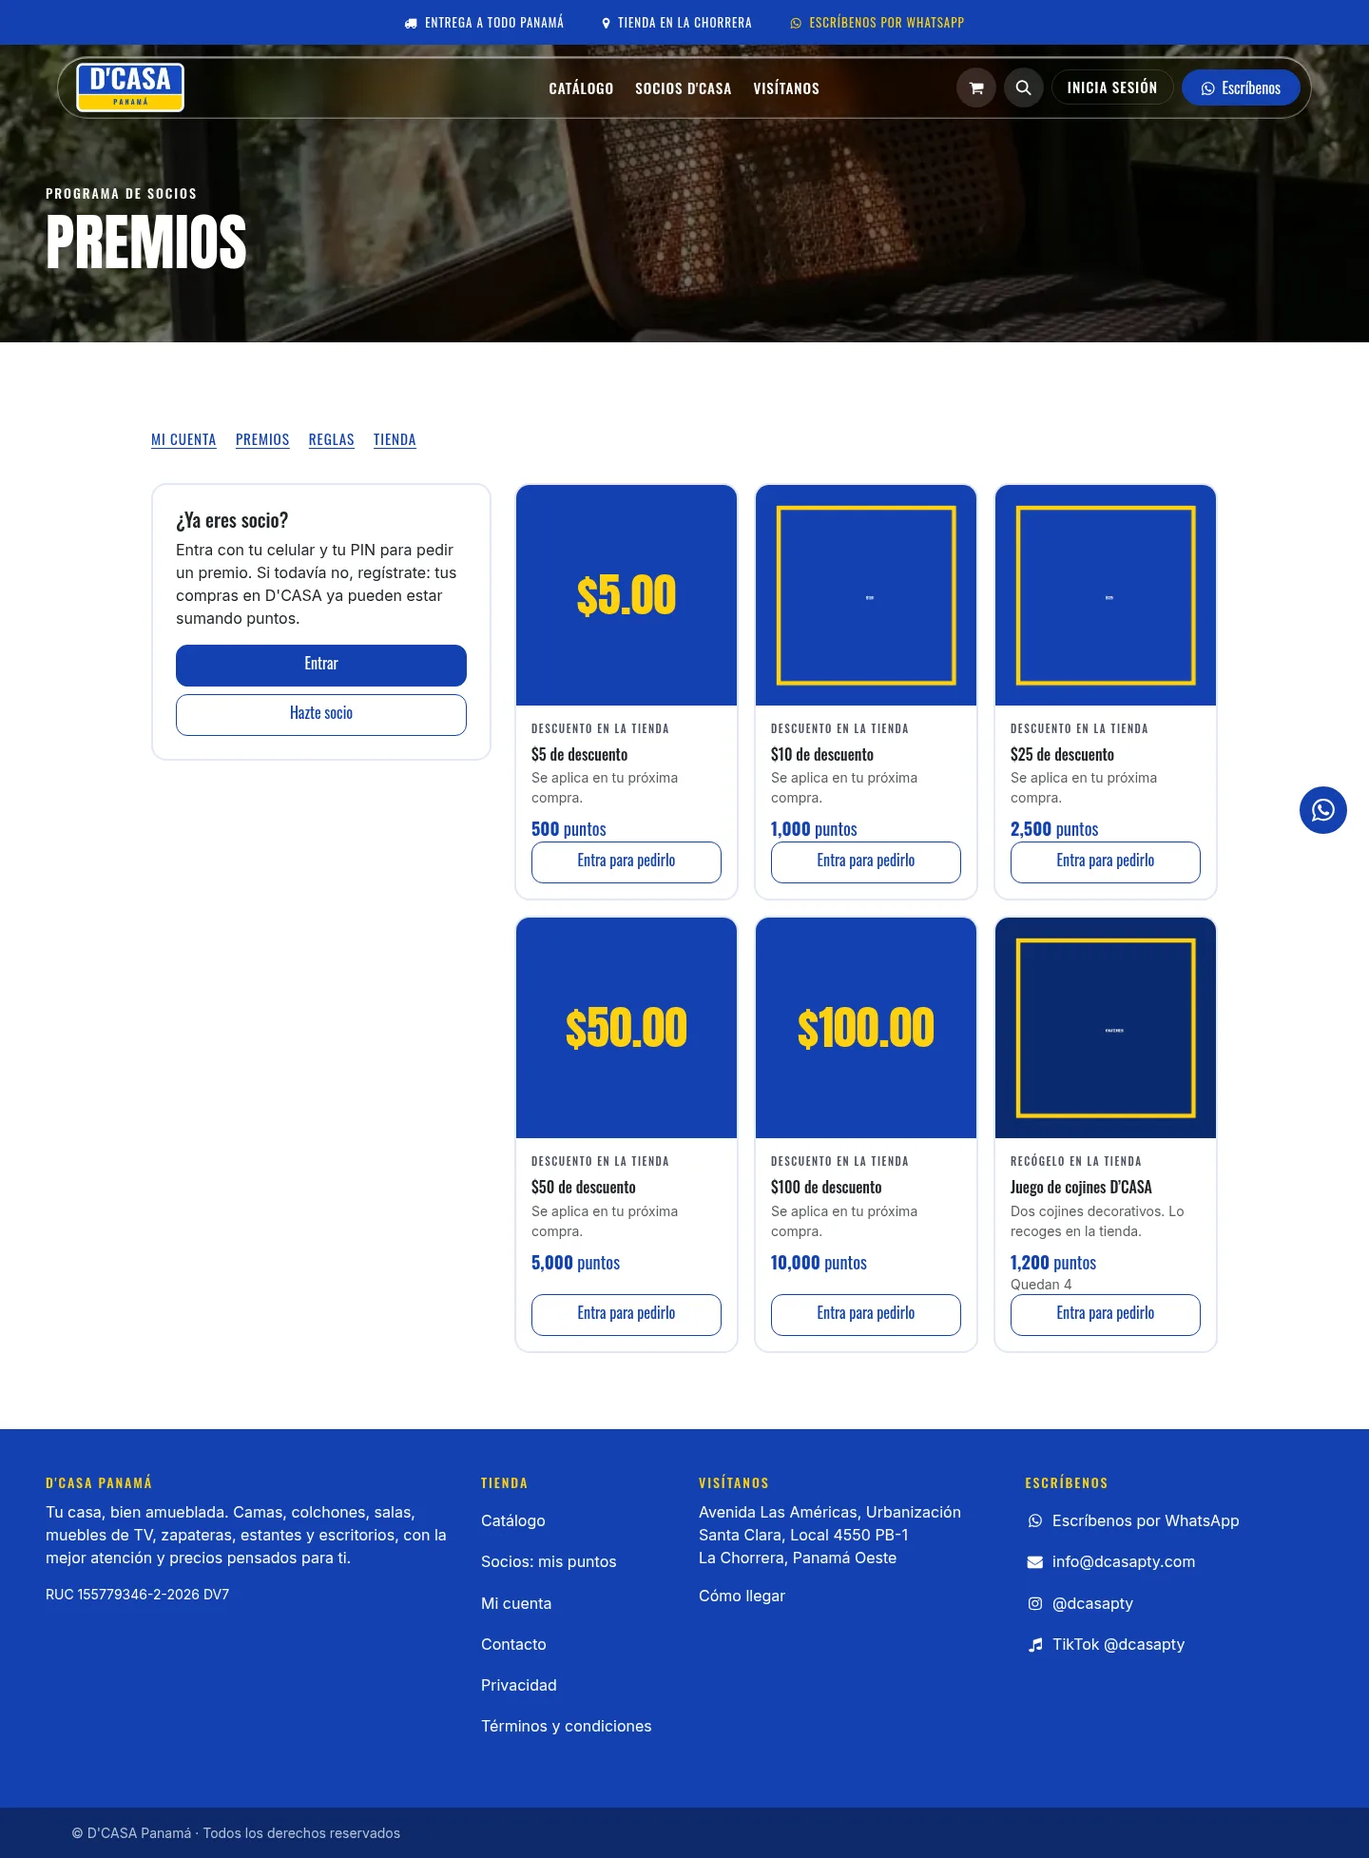
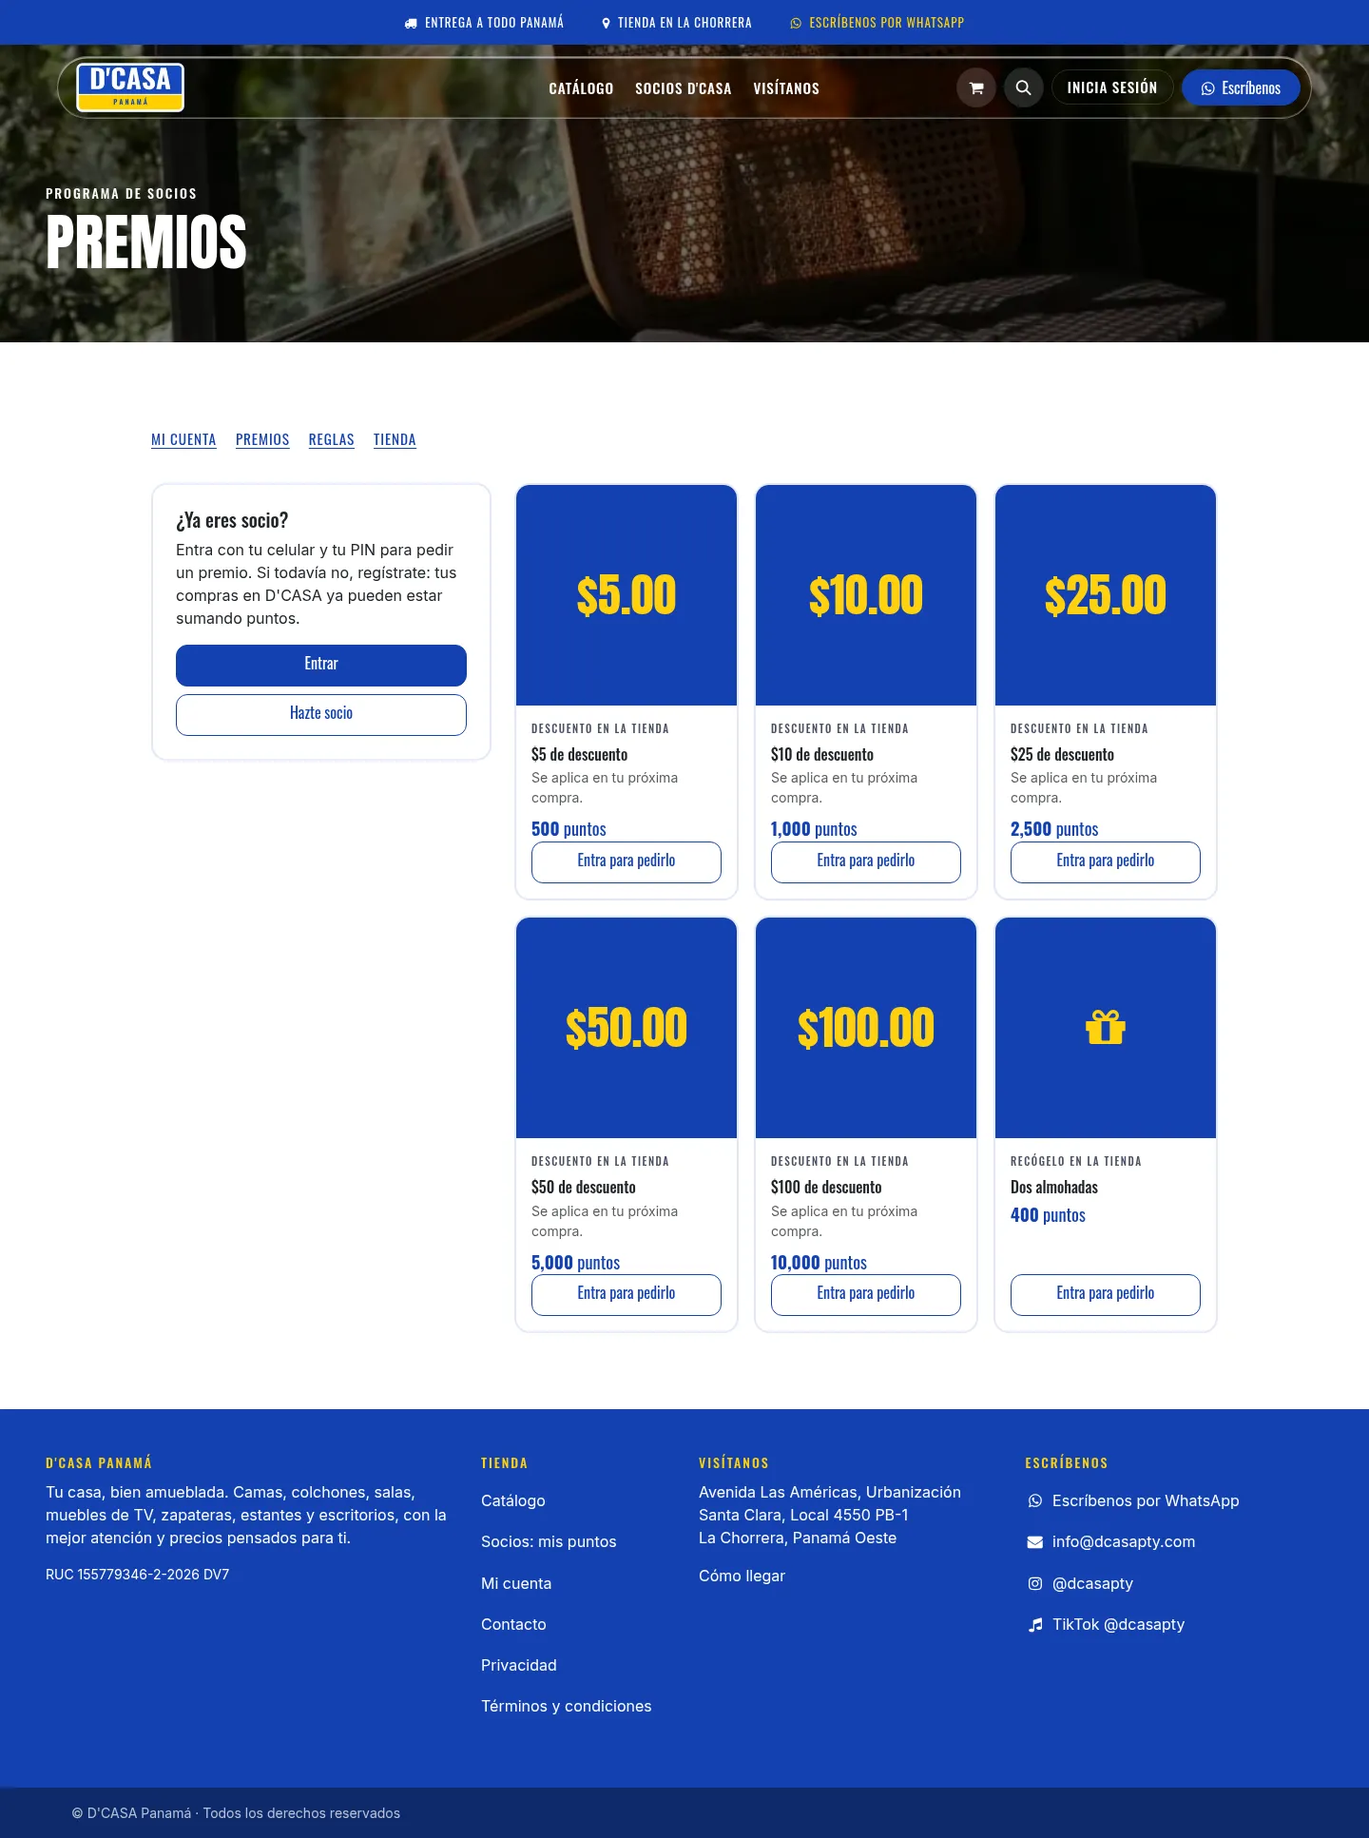
Socios en la web: canje solo por premios (decisión de la dueña), capturas e informe de la ronda 7
- Premio de ejemplo sin notas internas en la descripción que ve el socio.
- docs/SOCIOS.md y docs/auditoria/ronda7/socios-web.md al día: modo premios fijo, almohadas de
  ejemplo y la duda del mínimo (se aplica al premio, no al saldo).
- Capturas 1440/390 de /socios/premios y del carrito con puntos.

Claude-Session: https://claude.ai/code/session_01JZnPSoK7YzuPNCJK2osXM4

diff --git a/addons/dcasa_socios/models/dcasa_canje.py b/addons/dcasa_socios/models/dcasa_canje.py
@@ -68,7 +68,7 @@ class DcasaPremio(models.Model):
         producto = self.env['product.product'].sudo().search([('default_code', '=', codigo_producto)], limit=1)
         valores = {
             'name': nombre,
-            'descripcion': producto.name if producto else self.env._('Premio de ejemplo: edítalo o archívalo.'),
+            'descripcion': producto.name or False,  # lo lee el socio: nada de notas internas
             'tipo': 'producto',
             'puntos': puntos,
             'product_id': producto.id,

diff --git a/addons/dcasa_socios/tests/test_premio_ejemplo.py b/addons/dcasa_socios/tests/test_premio_ejemplo.py
@@ -47,6 +47,7 @@ class TestPremioEjemploAlmohadas(CarritoCommon):
         premio = self.recrear()
         self.assertTrue(premio)
         self.assertFalse(premio.product_id)
+        self.assertFalse(premio.descripcion, 'el socio no ve notas internas en el catálogo')
         self.assertEqual((premio.valor, premio.costo, premio.puntos, premio.cantidad), (0, 0, 400, 2))
 
     def test_se_crea_una_sola_vez(self):

diff --git a/docs/auditoria/ronda7/socios-web.md b/docs/auditoria/ronda7/socios-web.md
@@ -8,79 +8,78 @@ portal dentro del módulo, SCSS propio). No se tocaron `website_dcasa`, `dcasa_i
 
 | # | Pedido | Resultado |
 |---|---|---|
-| 1 | Catálogo de premios en la web | `/socios/premios`, público. Enseña foto, nombre, descripción, puntos y «quedan N» de cada premio que Gerencia edita en *Socios → Configuración → Premios*. «Pedir» crea el canje de siempre (código de **72 h**, de `puntos.json`; puntos reservados al pedir). La misma página enseña los códigos por recoger (con «Recógelo en la tienda» o «Enséñalo al pagar») y el historial con su estado. |
-| 2 | Usar puntos en el carrito | En `/shop/cart`, el socio **con cuenta de la tienda** ve el paso **Usar mis puntos** (placa azul, premios como botones amarillos). Aplica un premio de descuento del catálogo: se pide el canje, los puntos salen del saldo y la orden lleva una línea negativa. Si lo quita, si el carrito baja del valor del premio, si el código vence o si el pedido se cancela (aun confirmado), los puntos vuelven con un **asiento contrario con motivo**. Nunca saldo negativo, nunca un premio mayor que el carrito, un premio por carrito, la línea no admite cantidad (ni por RPC). Respeta `saldoMinimoParaCanjear`. |
-| 2b | Modo `premios` / `todo` | Parámetro `dcasa_socios.puntos_en_carrito`, también en *Ajustes → Ventas → Socios: puntos en el carrito web*. `premios` (por defecto): solo los premios del catálogo. `todo`: además un campo «usa los puntos que quieras» contra cualquier producto; el descuento sale de **`canje.puntosPorDolar`** en `puntos.json` (la cifra aprobada en `$decidido`: 100 puntos = $1), redondeado hacia abajo al centavo, con el mínimo de 500 y sin pasarse del carrito ni del saldo. Si esa cifra se pone en `null`, el modo se apaga solo y quedan los premios. **Los dos modos están probados.** |
-| 3 | Cuenta unificada | El usuario de la tienda (portal) ve en `/my` una tarjeta azul con saldo, premios por recoger, invitados y «Mi cuenta de socio» → `/socios/cuenta`. `/socios` reconoce la sesión de la tienda sin pedir PIN (misma ficha `res.partner`, llave celular). Si tiene celular pero aún no es socio, `/socios` y `/my` le invitan a **activar sus puntos** eligiendo un PIN y aceptando los términos, en la misma ficha (sin crear otra). Si su celular ya es la llave de otra ficha, se le manda a entrar con PIN. «Salir» desde la sesión de la tienda cierra la sesión de la tienda. |
+| 1 | Catálogo de premios en la web | `/socios/premios`, público. Enseña foto (o una placa azul con el valor si no hay foto), nombre, descripción, puntos y «quedan N» de cada premio que Gerencia edita en *Socios → Configuración → Premios*. «Pedir» crea el canje de siempre (código de **72 h**, de `puntos.json`; los puntos se reservan al pedir). La misma página enseña los códigos por recoger y el historial. |
+| 2 | Usar puntos en el carrito | En `/shop/cart`, el socio **con cuenta de la tienda** ve el paso **Usar mis puntos** (placa azul, premios como botones amarillos). Elegir un premio de descuento pide el canje, saca los puntos del saldo y pone una línea negativa en la orden. Si lo quita, si el carrito baja del valor del premio, si el código vence o si el pedido se cancela (aun confirmado), los puntos vuelven con un **asiento contrario con motivo**. Nunca saldo negativo, nunca un premio mayor que el carrito, un premio por carrito, la línea no admite cantidad (ni por RPC). Respeta `saldoMinimoParaCanjear`. |
+| 2b | Modo `premios` / `todo` | **Decidido por ti: el canje es solo por premios que define el administrador.** Queda en `premios` (valor por defecto del parámetro `dcasa_socios.puntos_en_carrito`). El modo `todo` (puntos sueltos contra cualquier producto, a `canje.puntosPorDolar` de `puntos.json`) existe y está probado, pero **no está activo**; se cambiaría en *Ajustes → Ventas* sin despliegue. |
+| 3 | Cuenta unificada | El usuario de la tienda ve en `/my` una tarjeta azul con saldo, premios por recoger, invitados y «Mi cuenta de socio». `/socios` reconoce la sesión de la tienda sin pedir PIN (misma ficha, llave = celular). Si tiene celular pero aún no es socio, se le invita a **activar sus puntos** con un PIN en la misma ficha. Si su celular ya es la llave de otra ficha, se le manda a entrar con PIN. |
 | 4 | Puntos de la compra web | Sin cambios de regla: suman **solo cuando la factura queda pagada**, sobre lo que de verdad pagó (ya con el premio descontado). Probado de punta a punta: confirmar no suma, facturar sin pagar no suma, pagar suma. |
+| 5 | Premio de ejemplo | **«Dos almohadas» por 400 puntos**, de producto, ligado a `ALMOHADA001` (ALMOHADA MICRO GEL SLEEP ESSENTIALS) × 2 si ese producto ya está en la base; si no, se crea sin producto y no falla. Valor y costo salen del precio y costo del producto (sin producto, 0). Se crea **una sola vez**: Gerencia lo edita o archiva y una actualización no lo resucita. Ver la duda del mínimo abajo. |
 
-## Decisiones que se tomaron (y se pueden revertir)
+## Lo que tienes que decidir
 
-- **El canje libre es un premio técnico** (`dcasa_socios.premio_libre_web`, marcado `libre`): así el
-  canje del carrito libre entra por el mismo `dcasa.canje._pedir` que todo lo demás (código, reserva,
-  vigencia, reverso, reportes). No sale en el catálogo ni en la lista de Premios de Gerencia.
-- **`puntos.json` sube a la versión 3** solo por añadir `canje.puntosPorDolar: 100`. Es la cifra que ya
-  estaba aprobada en `$decidido` («100 puntos = $1 al canjear») y la misma escalera de los premios de
-  arranque; antes vivía solo en texto y en una plantilla. Ninguna cifra de acumulación ni de referido cambió.
-  La pantalla de inicio de `/socios` ahora lee esa cifra en vez de tenerla escrita.
-- **Quien activa desde la tienda no teclea el código de la factura** aunque tenga puntos esperando: la
-  sesión de la tienda (correo + contraseña) ya prueba que es él, y los puntos están en su misma ficha.
-  El registro por QR sigue exigiéndolo.
-- **Un canje aplicado en el carrito no se cancela desde la app** («quítalo desde el carrito»): si se
-  cancelara desde la app, la línea negativa seguiría en el carrito hasta la siguiente visita.
-- **El socio que solo tiene sesión por PIN no canjea en el carrito.** El carrito de un visitante no tiene
-  ficha hasta el paso de dirección, y ligarlo al socio por celular mezclaría fichas. Se le enseña su saldo
-  y dos salidas: entrar con su cuenta de la tienda, o pedir un premio y dictar el código al coordinar
-  por WhatsApp.
-
-## Decisiones pendientes (de la dueña)
-
-1. **`premios` o `todo`.** Está en `premios`. Con `todo`, el 1 % devuelto se puede gastar en cualquier
-   producto a partir de 500 puntos ($5); con `premios`, solo en la escalera de $5/$10/$25/$50/$100 que
-   edita Gerencia. Se cambia en Ajustes sin despliegue.
-2. **¿Se promueve la cuenta de la tienda a los socios del QR?** Hoy el socio del QR no tiene correo; para
+1. **El mínimo de 500 puntos y las almohadas de 400.** Hoy `saldoMinimoParaCanjear` se compara con
+   **los puntos del premio**, no con el saldo: ningún premio puede costar menos de 500. Resultado: las
+   almohadas salen en el catálogo con el botón «Pedir» (si el socio tiene 400 o más), pero al pedirlas
+   sale «El canje mínimo es de 500 puntos» y no se descuenta nada. Opciones:
+   - **a)** El mínimo es de **saldo** (como dice su nombre): hay que tener al menos 500 para canjear
+     cualquier cosa, y entonces las almohadas (400) se pueden pedir. Es un cambio de código pequeño.
+   - **b)** El mínimo es **por premio** (como hoy): subir las almohadas a 500 o más, o bajar el mínimo
+     en `puntos.json` (es una cifra del programa: la cambias tú).
+   No se cambió nada en `puntos.json`. Hasta que decidas, conviene **archivar** las almohadas o dejarlas
+   sabiendo que el botón da ese aviso.
+2. **¿Se promueve la cuenta de la tienda a los socios del QR?** El socio del QR no tiene correo; para
    usar puntos en el carrito web necesita cuenta de la tienda. Opciones: pedir correo opcional en el
-   registro de `/socios` y crear el usuario del portal con la misma ficha; o dejar la tienda web para
-   «pedir premio + dictar el código». No se hizo nada sin decidirlo.
-3. **Fotos de los premios.** El catálogo las enseña si Gerencia las sube (campo imagen del premio); sin
-   foto sale una placa azul con el valor. ¿Quién las produce y en qué estilo?
-4. **Un carrito abandonado con premio** reserva los puntos hasta que el código venza (72 h); al vencer,
-   el cron devuelve los puntos y la línea sale del carrito en la siguiente visita. Si se quiere devolver
-   antes, hay que decidir el plazo (no hay cifra en `puntos.json` para eso y no se inventó).
+   registro de `/socios`, o dejar la web para «pedir premio + dictar el código por WhatsApp».
+3. **Fotos de los premios.** El catálogo las enseña si Gerencia las sube; sin foto sale la placa azul.
+   ¿Quién las produce y en qué estilo? (Si `ALMOHADA001` ya tiene foto al crear el premio, se usa esa.)
+4. **Un carrito abandonado con premio** reserva los puntos hasta que el código venza (72 h). Si se
+   quiere devolver antes, hay que decidir el plazo (no hay cifra en `puntos.json` y no se inventó).
 5. **`puntosMaximosPorCompra` sigue PENDIENTE DE CONFIRMAR POR MARCIAL** (ya lo estaba).
+6. **`puntos.json` versión 3** añadió `canje.puntosPorDolar: 100`, la cifra ya aprobada en `$decidido`
+   («100 puntos = $1»). Solo la usa el modo `todo` (inactivo) y la pantalla de inicio de `/socios`.
+   Si prefieres que no esté, el modo `todo` se apaga solo con `null`.
+
+## Decisiones técnicas (reversibles)
+
+- **El canje libre es un premio técnico** (`premio_libre_web`, marcado `libre`): no sale en el catálogo.
+- **Un canje aplicado en el carrito no se cancela desde la app** («quítalo desde el carrito»).
+- **El socio que solo entra con PIN no canjea en el carrito** (su carrito no tiene ficha hasta la
+  dirección y ligarlo por celular mezclaría fichas): se le enseña su saldo y cómo usarlo.
+- **Doble gasto imposible** (arreglado en esta ronda): pedir un premio escribe la fila de la ficha antes
+  de leer el saldo. Antes, la app y el carrito a la vez podían gastar dos veces el mismo saldo porque
+  Odoo trabaja con fotos de la base (REPEATABLE READ) y el candado de lectura no lo impedía.
+- En el carrito, la línea del premio enseña el importe **sin ITBMS** (−$9.35 para un premio de $10),
+  igual que las demás líneas; la placa azul y el total sí dicen −$10.00. Si confunde, se puede cambiar.
 
 ## Pruebas
 
-`scripts/test.sh dcasa_socios,website_dcasa,dcasa_base` en base limpia (`dcasa_t_socios2`, puerto 8516,
-Odoo de `vendor/odoo`): **280 tests; los de socios, dcasa_base y el resto de website_dcasa en verde**
-(los 6 fallos de la primera corrida eran de esta ronda y se corrigieron: lista blanca RPC, versión de
-reglas en `test_compras`, una cifra en una vista del panel, dos aserciones y el campo `mobile` que no
-existe en Odoo 19). Queda **un fallo ajeno a esta ronda**: `website_dcasa`
-`TestPaginasBlackWeekend.test_banda_en_la_portada_antes_de_los_carruseles` espera un
-`<source type="image/webp">` para un producto de prueba **sin foto** (`_dcasa_img_srcset` devuelve
-vacío sin adjunto); viene con el merge de `claude/merge-rama-to-main-ty3koz` y no se tocó
-(`website_dcasa` queda fuera del alcance). `ruff check addons`: limpio.
+`scripts/test.sh dcasa_socios,website_dcasa,dcasa_base,dcasa_invoice` en base limpia
+(`dcasa_t_socios3`, puerto 8522): **333 tests**, todos en verde salvo **uno ajeno a esta ronda**:
+`website_dcasa` `TestPaginasBlackWeekend.test_banda_en_la_portada_antes_de_los_carruseles` espera un
+`<source type="image/webp">` para un producto de prueba **sin foto** (viene del merge con
+`claude/merge-rama-to-main-ty3koz`; `website_dcasa` queda fuera del alcance). `ruff check addons`: limpio.
 
-Nuevas (`tests/test_socios_web.py`, `@tagged('post_install')`): catálogo público y premio técnico oculto;
-pedir desde el catálogo (código, estado, stock, cancelar); carrito en los dos modos (aplicar, quitar,
-mínimo, saldo insuficiente, premio mayor que el carrito, un premio por carrito, cantidad bloqueada por RPC,
-carrito que se achica, código vencido, cancelar pedido en borrador y confirmado → reverso con motivo, el
-libro no se edita); `todo` con `puntosPorDolar` en `null` se apaga; compra web suma solo al pagar; cuenta
-unificada (`/socios` reconoce la sesión, activar con PIN, sin celular, `/my`, salir); superficie RPC (los
-caminos del carrito son privados; portal no crea el wizard ni edita premios); ninguna cifra de puntos en
-plantillas, controladores ni modelos; la equivalencia del canje sale de las reglas (se cambia en el JSON y
-cambia en pantalla).
+Tests de esta ronda (`@tagged('post_install', '-at_install')`):
+- `tests/test_socios_web.py`: catálogo público y premio técnico oculto; pedir desde el catálogo;
+  carrito en los dos modos (aplicar, quitar, mínimo, saldo insuficiente, premio mayor que el carrito,
+  un premio por carrito, cantidad bloqueada por RPC, carrito que se achica, código vencido, cancelar
+  pedido en borrador y confirmado → reverso con motivo, el libro no se edita); `todo` sin la cifra se
+  apaga; la compra web suma solo al pagar; cuenta unificada (`/socios` reconoce la sesión, activar con
+  PIN, sin celular, `/my`, salir); superficie RPC; ninguna cifra de puntos en plantillas, controladores
+  ni modelos; pedir un premio escribe la ficha antes de leer el saldo.
+- `tests/test_premio_ejemplo.py`: el premio de ejemplo se crea al instalar (400, producto, × 2,
+  editable); se liga al producto si existe y toma su precio y costo; sin producto se crea igual; no
+  resucita si se archiva o borra; el mínimo de `puntos.json` se aplica al premio (comportamiento actual,
+  documentado); un premio de producto no entra en el carrito.
 
 ## Capturas
 
+Base de prueba con un «Producto de prueba (captura)» de $100 y una socia de prueba con 1,500 puntos.
+
 | Archivo | Qué se ve |
 |---|---|
-| `premios-visitante-*.webp` | Catálogo público, con «Entra para pedirlo» |
-| `premios-socia-*.webp`, `premios-socia-con-canje-*.webp` | Catálogo con sesión: saldo, «Pedir», código por recoger |
-| `carrito-visitante-*.webp` | Carrito del visitante: invitación a entrar |
-| `carrito-usar-puntos-*.webp` | Carrito de la socia: paso «Usar mis puntos» (modo `premios`) |
-| `carrito-premio-aplicado-*.webp` | Premio aplicado: línea negativa y botón para quitarlo |
-| `carrito-modo-todo-*.webp`, `carrito-modo-todo-aplicado-*.webp` | Modo `todo`: campo de puntos y 733 puntos = $7.33 |
-| `my-socia-*.webp`, `my-activar-*.webp` | `/my` con la tarjeta del programa (socia / cliente sin PIN) |
-| `socios-activar-*.webp` | `/socios` para el cliente de la tienda: activar con PIN |
-| `cuenta-socia-*.webp` | `/socios/cuenta` entrando con la sesión de la tienda |
+| `premios-visitante-1440/390.webp` | Catálogo público, con «Entra para pedirlo» |
+| `premios-socia-1440/390.webp` | Catálogo con sesión: saldo, «Pedir», «Te faltan…», las almohadas de ejemplo |
+| `carrito-usar-puntos-1440/390.webp` | Carrito de la socia: paso «Usar mis puntos» (modo `premios`) |
+| `carrito-premio-aplicado-1440/390.webp` | Premio de $10 aplicado: línea negativa, total y botón para quitarlo |
+| `carrito-visitante-1440.webp` | Carrito del visitante: invitación a entrar |

diff --git a/docs/SOCIOS.md b/docs/SOCIOS.md
@@ -40,6 +40,11 @@ código `DCA…` o el nombre del padrino.
 - **Catálogo público** en `dcasapty.com/socios/premios`: foto, nombre y puntos de cada premio
   (lo que Gerencia edita en *Socios → Configuración → Premios*). «Pedir» crea el canje de siempre
   (código de 72 h, puntos reservados); la página enseña el estado y si se recoge o se enseña al pagar.
+- **Premio de ejemplo** (decisión de la dueña, 03/10/2026): «Dos almohadas» por 400 puntos, de
+  producto, ligado a `ALMOHADA001` × 2 si ese producto ya está en la base (si no, sin producto). Se crea
+  una sola vez desde `data/premios_data.xml`; Gerencia lo edita o lo archiva y no vuelve a aparecer.
+  **Ojo:** `saldoMinimoParaCanjear` (500) se compara hoy contra los puntos **del premio**, así que un
+  premio de 400 no se puede pedir hasta que la dueña decida (ver `docs/auditoria/ronda7/socios-web.md`).
 
 **En la tienda web (puntos en el carrito):**
 - Un socio **con cuenta de la tienda** (usuario del portal; la misma ficha `res.partner`, llave =
@@ -52,6 +57,8 @@ código `DCA…` o el nombre del padrino.
   `premios` (por defecto: solo los premios del catálogo) o `todo` (además, el socio elige cuántos puntos
   usar contra cualquier producto; el descuento sale de `canje.puntosPorDolar` en `puntos.json`,
   redondeado hacia abajo al centavo, respetando `saldoMinimoParaCanjear`). Los dos modos están probados.
+  **Decisión de la dueña (03/10/2026): el canje es SOLO por premios que define el administrador**, así
+  que se queda en `premios`; `todo` existe y está probado, pero no está activo.
 - La compra web suma puntos **solo cuando su factura queda pagada**, como cualquier otra, y sobre lo
   que de verdad pagó (ya con el premio descontado).
 
